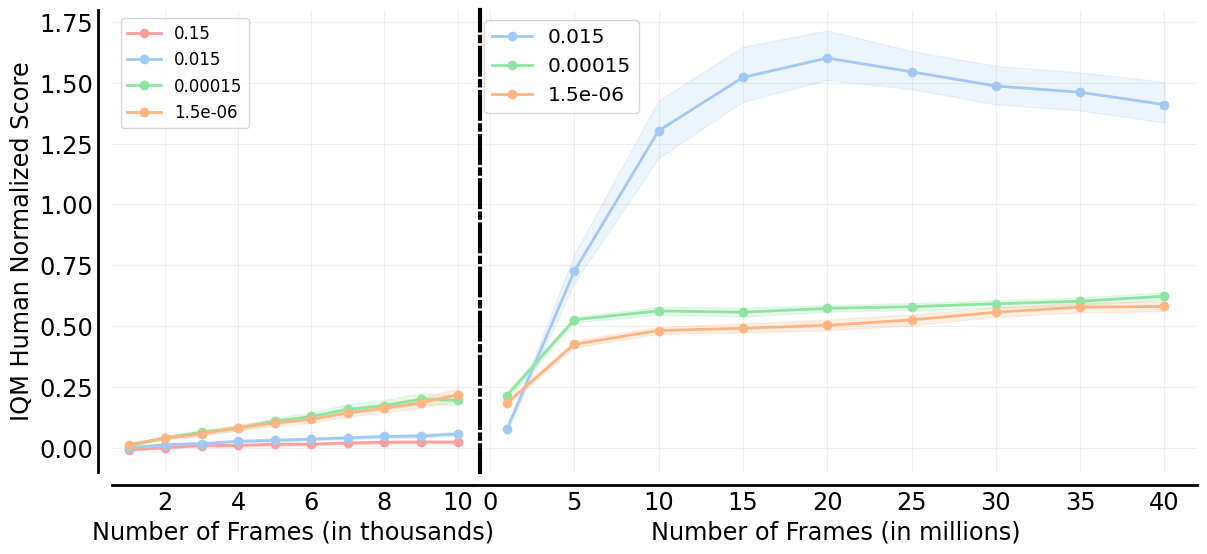
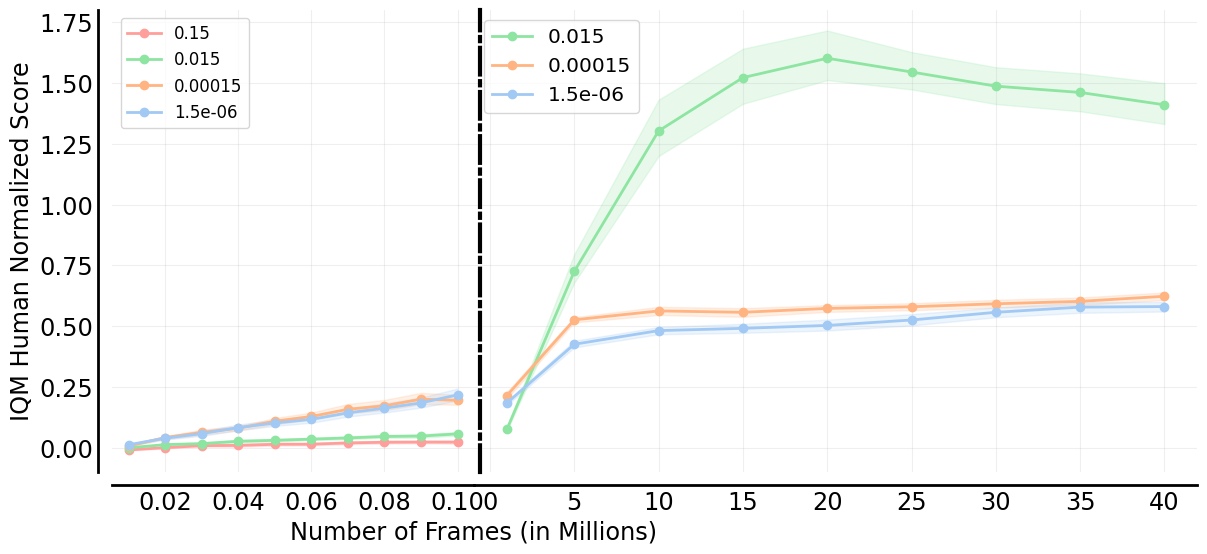
update data

diff --git a/split_graph.py b/split_graph.py
@@ -27,7 +27,7 @@ experiments_mapping = { "Activation Function": "layer_funct",
                     }
 
 for hyperparameter, hyp in experiments_mapping.items():
-    if hyp in ["convs", "replay_capacity", "weightdecay", "clip_rewards", "update_periods", "widths"]:
+    if hyp in ["convs", "replay_capacity", "weightdecay", "update_periods"]:
         continue
     # if hyp in ["gammas", "layer_funct", "convs_normalization",
     #               "min_replay_history", "num_atoms", "update_horizon"]:
@@ -48,7 +48,7 @@ for hyperparameter, hyp in experiments_mapping.items():
         data100k[f'{ag}_{hyp}'] = {k.split("_")[-1]:v for (k, v) in data100k[f'{ag}_{hyp}'].items()}
         data40M[f'{ag}_{hyp}'] = {k.split("_")[-1]:v for (k, v) in data40M[f'{ag}_{hyp}'].items()}
         fig = split_plot(data100k[f'{ag}_{hyp}'], data40M[f'{ag}_{hyp}'])
-        # plt.show()
+        plt.xlabel("Number of Frames (in Millions)", x=0)
         
         save_dir = f"figures/split/HNS/{hyperparameter}"
         if not os.path.isdir(save_dir):

diff --git a/plot_data.py b/plot_data.py
@@ -138,9 +138,10 @@ def plot_human_normalized(all_experiments, scale='100k', ax=None, colors=None):
   else:
     fig = None
   ax = plot_utils.plot_sample_efficiency_curve(
-      frames+1, iqm_scores, iqm_cis, 
+      0.01*(frames+1) if scale == "100k" else (frames + 1), 
+      iqm_scores, iqm_cis, 
       algorithms=algorithms,
-      xlabel=f'Number of Frames (in {"thousands" if scale == "100k" else "millions"})',
+      xlabel=f'',
       ylabel='IQM Human Normalized Score',
       colors=colors,
       legend=True,
